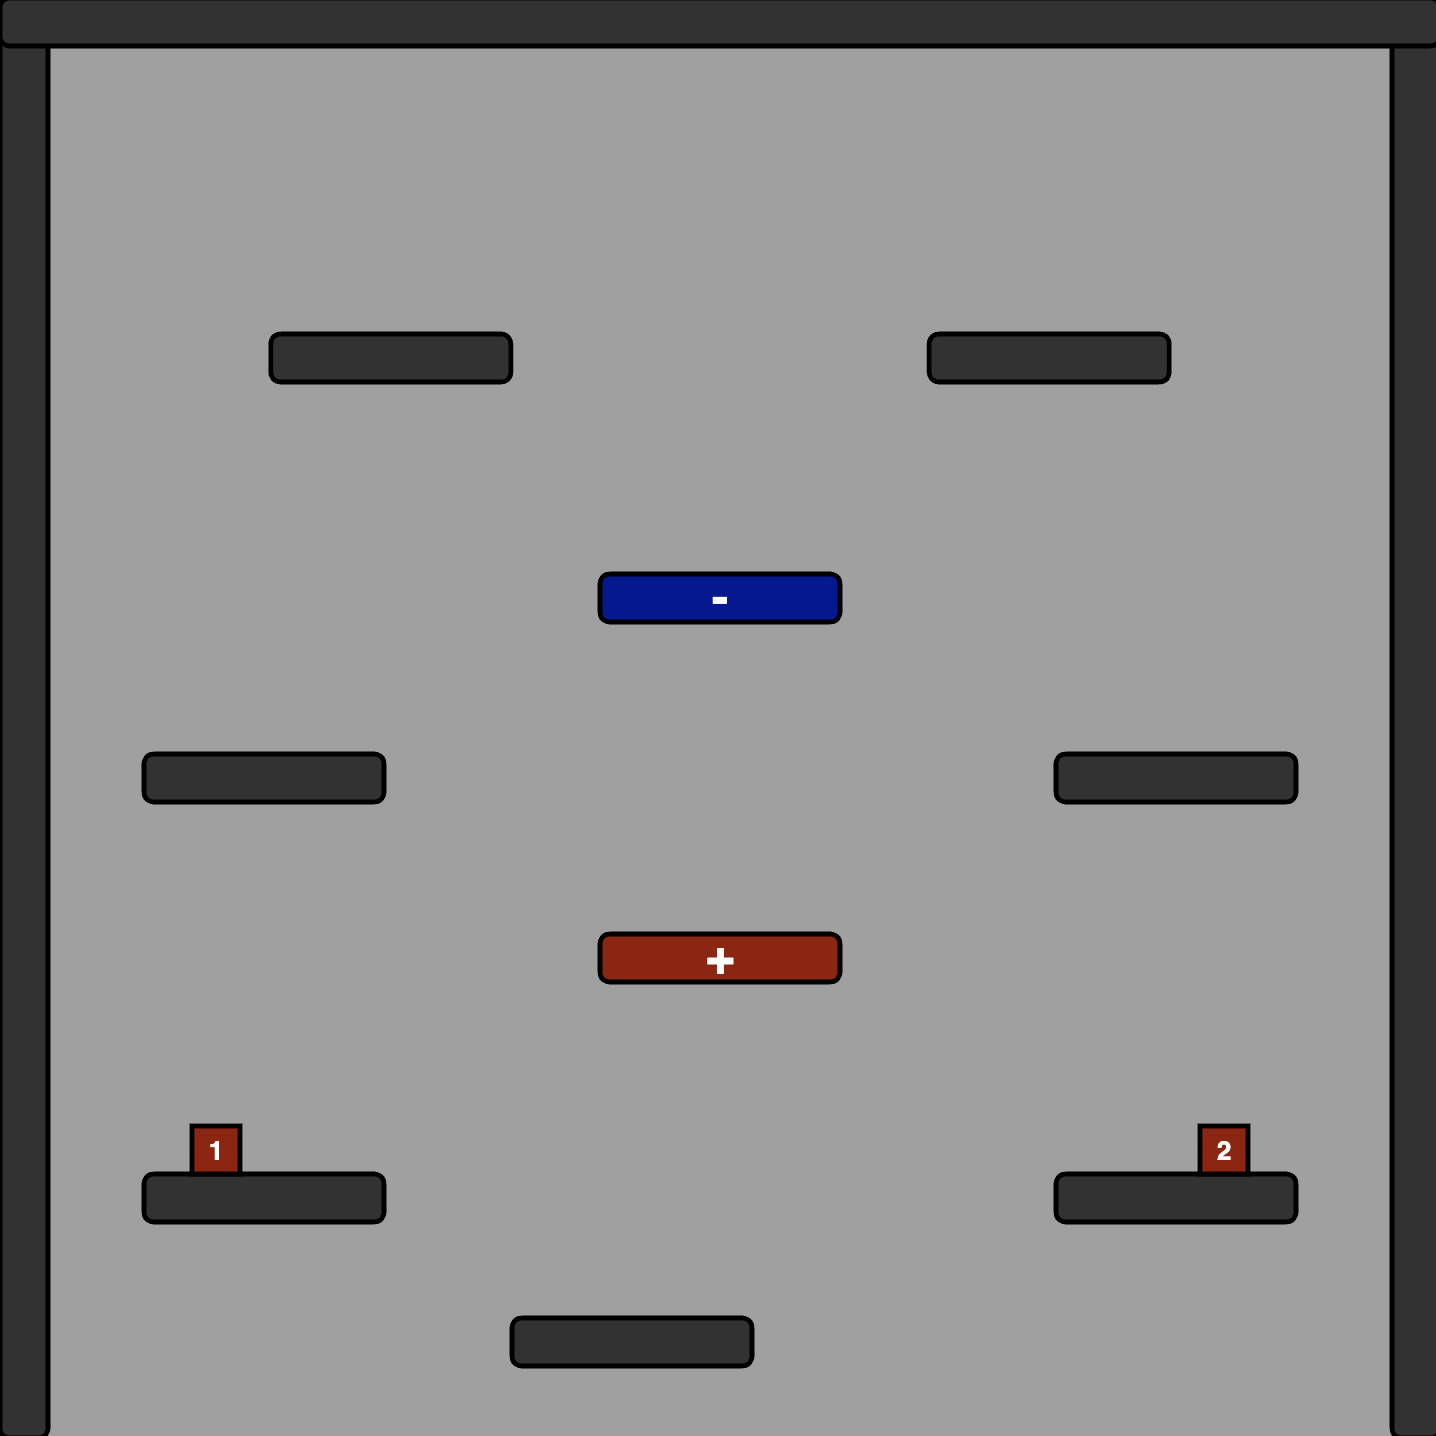
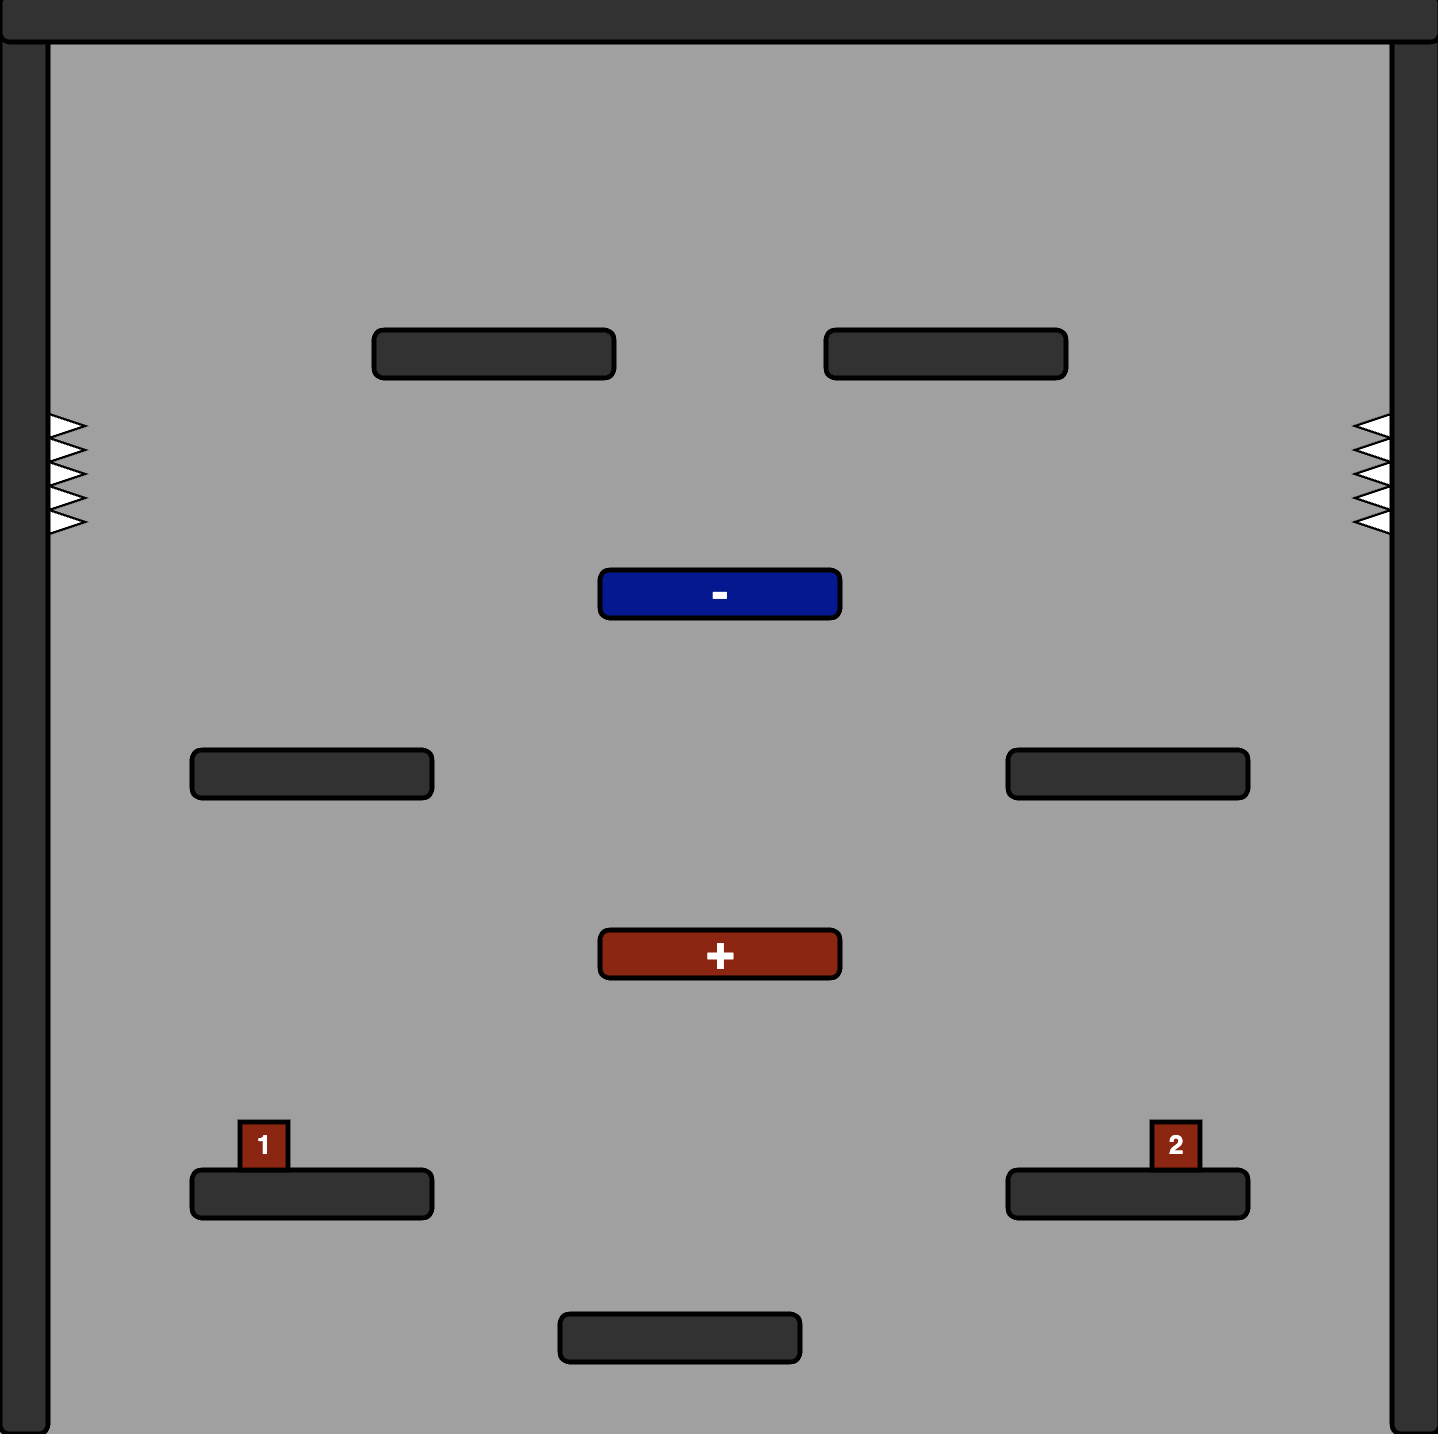
added map randomization and started round count customization

diff --git a/classes/scenes/MapSelectScene.js b/classes/scenes/MapSelectScene.js
@@ -2,20 +2,21 @@ class MapSelectScene extends Scene {
   constructor(map) {
     super();
     this.UIElements = [];
-    this.maps = [new ExampleMap(), new PolkaDots(), new Pillars()]; //array of maps in rotation
+    this.maps = [ExampleMap, PolkaDots, Pillars]; //array of maps in rotation
     this.mapImgs = [];
     this.currentIx = 0;
-    this.imgIcon = new ImgIcon(300, 300, 110, 110, 0, icon);
-    this.mapLabel = new TextBox(300, 210, 200, 20, 0, this.maps[0].name, 15, color(0, 0, 0, 0), color(20));
+    this.imgIcon = new ImgIcon(300, 200, 110, 110, 0, icon);
+    this.mapLabel = new TextBox(300, 110, 200, 20, 0, this.maps[0].name, 15, color(0, 0, 0, 0), color(20));
     this.returnScene = false;
     this.backToMain = false;
+    this.roundsToWin = 3;
   }
   
   init() {
     console.log("init select scene");
     
     for (let i in this.maps) {
-        let map = this.maps[i]
+        let map = new this.maps[i]();
         loadImage(
             map.imgPath,
 
@@ -33,26 +34,56 @@ class MapSelectScene extends Scene {
 
     append(this.UIElements, this.imgIcon);
     append(this.UIElements, this.mapLabel);
-    append(this.UIElements, new ImgButton(200, 300, 70, 50, loadImage("assets/LeftArrow.png"), undefined, () => this.scrollLeft()));
-    append(this.UIElements, new ImgButton(400, 300, 70, 50, loadImage("assets/RightArrow.png"), undefined, () => this.scrollRight()));
-    append(this.UIElements, new RectButton(300, 420, 120, 60, 10, color(20, 130, 200), color(0, 50, 100), "Start", 15, color(255), () => {this.returnScene = true;}));
-    append(this.UIElements, new RectButton(300, 520, 120, 60, 10, color(20, 130, 200), color(0, 50, 100), "Exit", 15, color(255), () => {this.backToMain = true;}));
-
+    append(this.UIElements, new ImgButton(200, 200, 70, 50, loadImage("assets/LeftArrow.png"), undefined, () => this.mapScrollLeft()));
+    append(this.UIElements, new ImgButton(400, 200, 70, 50, loadImage("assets/RightArrow.png"), undefined, () => this.mapScrollRight()));
+    append(this.UIElements, new RectButton(420, 520, 120, 60, 10, color(20, 130, 200), color(0, 50, 100), "Start", 15, color(255), () => {this.returnScene = true;}));
+    append(this.UIElements, new RectButton(180, 520, 120, 60, 10, color(20, 130, 200), color(0, 50, 100), "Exit", 15, color(255), () => {this.backToMain = true;}));
+    append(this.UIElements, new TextBox(250, 330, 300, 40, 0, "Map Randomization: ", 20, color(0, 0, 0, 0), color(0), 0));
+    this.isRandomizedButton = new ImgButton(400, 330, 30, 30, icon, icon, () => this.randomizedButtonPressed(), false);
+    append(this.UIElements, this.isRandomizedButton);
+    append(this.UIElements, new TextBox(250, 400, 300, 40, 0, "Rounds to Win: ", 20, color(0, 0, 0, 0), color(0), 0));
+    this.roundsToWinTextBox = new TextBox(400, 400, 60, 30, 0, this.roundsToWin, 25, color(0, 0, 0, 0), color(0), 0);
+    append(this.UIElements, this.roundsToWinTextBox);
+    append(this.UIElements, new ImgButton(350, 400, 50, 35, loadImage("assets/LeftArrow.png"), undefined, () => this.roundCountScrollLeft()));
+    append(this.UIElements, new ImgButton(450, 400, 50, 35, loadImage("assets/RightArrow.png"), undefined, () => this.roundCountScrollRight()));
   }
-  
+
+  randomizedButtonPressed() {
+    if(this.isRandomizedButton.state == false) {
+      this.mapLabel.txt = "???";
+    } else {
+      this.mapLabel.txt = this.maps[this.currentIx].name;
+    }
+  }
+
   runLoop(dT) {
     this.drawBackground();
 
-    if(this.mapImgs[this.currentIx] !== undefined) {
-        this.imgIcon.img = this.mapImgs[this.currentIx];
+    if(this.isRandomizedButton.state == false) {
+
+      if(this.mapImgs[this.currentIx] !== undefined) {
+          this.imgIcon.img = this.mapImgs[this.currentIx];
+      } else {
+          this.imgIcon.img = icon;
+      }
+
     } else {
-        this.imgIcon.img = icon;
+      let counter = (frameCount / 20) % this.maps.length;
+      if(this.mapImgs[floor(counter)] !== undefined) {
+          this.imgIcon.img = this.mapImgs[floor(counter)];
+      } else {
+          this.imgIcon.img = icon;
+      }
     }
 
     updateAndDrawElements(this.UIElements, true);
 
     if(this.returnScene) {
-        return(new GameScene(this.maps[this.currentIx]));
+        if(this.isRandomizedButton.state == false) {
+          return(new GameScene(new this.maps[this.currentIx](), this.roundsToWin, false, this.maps));
+        } else {
+          return(new GameScene(new (random(this.maps))(), this.roundsToWin, true, this.maps));
+        }
     }
 
     if(this.backToMain) {
@@ -60,22 +91,40 @@ class MapSelectScene extends Scene {
     }
   }
   
-  scrollLeft() {
-    if(this.currentIx == 0) {
-        this.currentIx = this.maps.length - 1;
-    } else {
-        this.currentIx--;
+  roundCountScrollLeft() {
+    if(this.roundsToWin > 1) {
+      this.roundsToWin--;
+      this.roundsToWinTextBox.txt = this.roundsToWin;
     }
-    this.mapLabel.txt = this.maps[this.currentIx].name;
   }
 
-  scrollRight() {
-    if(this.currentIx == this.maps.length - 1) {
-        this.currentIx = 0;
-    } else {
-        this.currentIx++;
+  roundCountScrollRight() {
+if(this.roundsToWin < 67) {
+      this.roundsToWin++;
+      this.roundsToWinTextBox.txt = this.roundsToWin;
     }
-    this.mapLabel.txt = this.maps[this.currentIx].name;
+  }
+
+  mapScrollLeft() {
+    if(this.isRandomizedButton.state == false) {
+      if(this.currentIx == 0) {
+          this.currentIx = this.maps.length - 1;
+      } else {
+          this.currentIx--;
+      }
+      this.mapLabel.txt = this.maps[this.currentIx].name;
+    }
+  }
+
+  mapScrollRight() {
+    if(this.isRandomizedButton.state == false) {
+      if(this.currentIx == this.maps.length - 1) {
+          this.currentIx = 0;
+      } else {
+          this.currentIx++;
+      }
+      this.mapLabel.txt = this.maps[this.currentIx].name;
+    }
   }
 
   drawBackground() {
@@ -83,13 +132,13 @@ class MapSelectScene extends Scene {
     fill(150);
     rect(300, 300, 570, 570);
     fill(30);
-    rect(300, 300, 120, 120);
+    rect(300, 200, 120, 120);
 
     textSize(40 + 5*sin(frameCount/50));
     fill(100, 140, 220);
     strokeWeight(3);
     stroke(0);
-    text("Map Select", 300, 160);
+    text("Game Options", 300, 60);
 
 
     strokeWeight(0);

diff --git a/classes/scenes/GameScene.js b/classes/scenes/GameScene.js
@@ -1,5 +1,5 @@
 class GameScene extends Scene {
-  constructor(map) {
+  constructor(map, roundsToWin, areMapsRandomized, mapPool) {
     super();
     this.powerUpPool = [MagnetismUp]; 
     this.platforms = [];
@@ -18,6 +18,9 @@ class GameScene extends Scene {
     this.score2 = 0;
     this.exit = false;
     this.map = map;
+    this.roundsToWin = roundsToWin;
+    this.areMapsRandomized = areMapsRandomized;
+    this.mapPool = mapPool;
   }
   
   init() {
@@ -134,6 +137,13 @@ class GameScene extends Scene {
       textSize(35);
       text("restarting in: " + str(Math.ceil(t/1000)), 300, 500)
     } else {
+      if(this.areMapsRandomized) {
+        this.map = new (random(this.mapPool))();
+        this.platforms = [];
+        this.spikes = [];
+        this.polarElements = [];
+        this.map.addElements(this.platforms, this.spikes, this.polarElements);
+      }
       this.plr1.isAlive = true;
       this.plr2.isAlive = true;
       this.plr1.x = this.map.p1SpawnX;

diff --git a/classes/UIElements/ImgButton.js b/classes/UIElements/ImgButton.js
@@ -1,5 +1,5 @@
 class ImgButton extends UIElement {
-  constructor(x, y, w, h, img1, img2, func) {
+  constructor(x, y, w, h, img1, img2, func, initState) {
     super();
     this.x = x;
     this.y = y;
@@ -8,7 +8,7 @@ class ImgButton extends UIElement {
     this.img1 = img1;
     this.img2 = img2;
     this.func = func;
-    this.state = true; // true = on, false = off
+    initState == undefined ? this.state = true : this.state = initState; // true = on, false = off
     this.wasPressed = false;
   }
   
@@ -19,13 +19,13 @@ class ImgButton extends UIElement {
         this.wasPressed = true;
       } else {
         if(this.wasPressed) {
-          this.func();
+          if(this.func != undefined) {
+            this.func();
+          }
           this.state = !this.state;
         }
         this.wasPressed = false;
       }
-    } else {
-      this.state = 0;
     }
   }
   

diff --git a/classes/UIElements/TextBox.js b/classes/UIElements/TextBox.js
@@ -1,5 +1,5 @@
 class TextBox extends UIElement {
-  constructor(x, y, w, h, r, txt, tSize, bgCol, txtCol) {
+  constructor(x, y, w, h, r, txt, tSize, bgCol, txtCol, strokeWeight) {
     super();
     this.x = x;
     this.y = y;
@@ -10,6 +10,7 @@ class TextBox extends UIElement {
     this.tSize = tSize;
     this.bgCol = bgCol;
     this.txtCol = txtCol;
+    this.strokeWeight = strokeWeight;
   }
   
   update() {
@@ -21,6 +22,7 @@ class TextBox extends UIElement {
     translate(this.x, this.y);
     rotate(this.r);
     fill(this.bgCol);
+    if(this.strokeWeight != undefined) {strokeWeight(this.strokeWeight);}
     rect(0, 0, this.w+20, this.h+20, 10);
     textSize(this.tSize);
     fill(this.txtCol);

diff --git a/classes/maps/PolkaDots.js b/classes/maps/PolkaDots.js
@@ -6,7 +6,7 @@ class PolkaDots extends Map {
         this.p2SpawnX = 480;
         this.p2SpawnY = 240;
         this.name = "Polka Dots";
-        this.imgPath = "assets/placeholder-icon.png";
+        this.imgPath = "assets/PolkaDots.png";
         this.openPowerUpLocs = [[300, 80], [300, 200]];
         this.filledPowerUpLocs = [];
     }

diff --git a/classes/maps/Pillars.js b/classes/maps/Pillars.js
@@ -6,7 +6,7 @@ class Pillars extends Map {
         this.p2SpawnX = 480;
         this.p2SpawnY = 240;
         this.name = "Pillars";
-        this.imgPath = "assets/placeholder-icon.png";
+        this.imgPath = "assets/Pillars.png";
         this.openPowerUpLocs = [[300, 80], [300, 200]];
         this.filledPowerUpLocs = [];
     }
